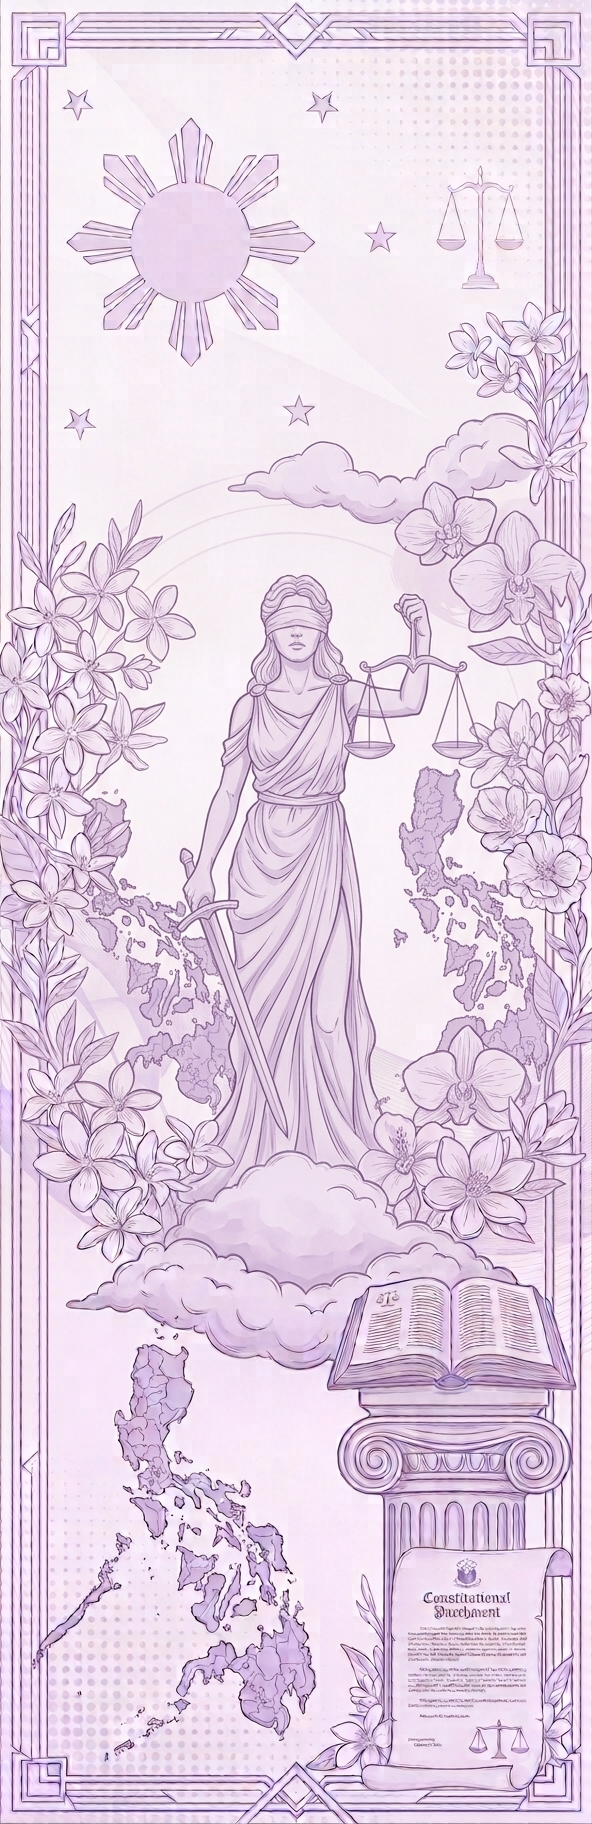
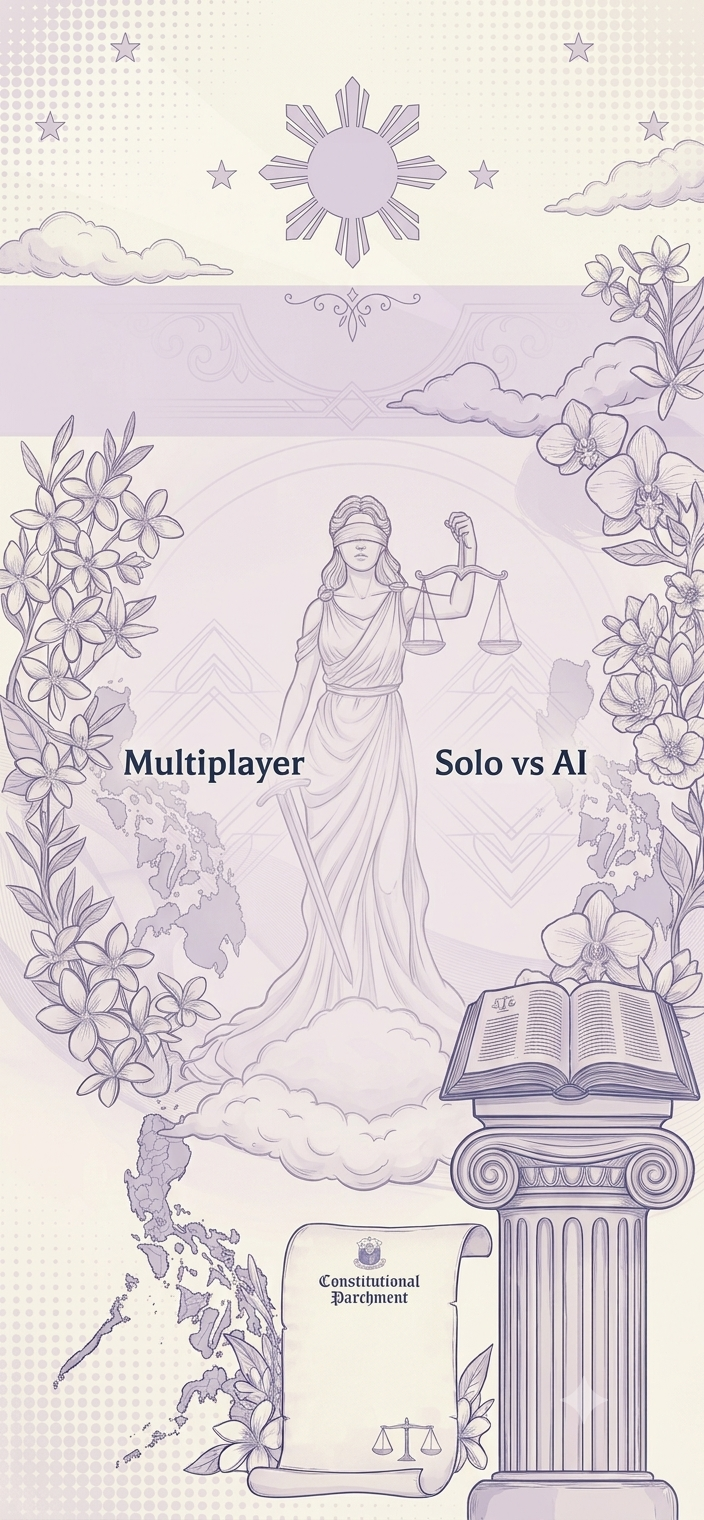
Switch background to full-screen cover mode, align title/cards with new artwork zones

diff --git a/www/js/game.js b/www/js/game.js
@@ -160,7 +160,7 @@ function renderHome(){
     <button class="sound-chip" onclick="toggleSound()">${soundIcon}</button>
     <button class="lang-chip" onclick="openLangPicker()"><svg viewBox="0 0 24 24" fill="none" stroke="currentColor" stroke-width="2" stroke-linecap="round" stroke-linejoin="round"><circle cx="12" cy="12" r="9"/><path d="M3 12h18M12 3a14 14 0 0 1 0 18M12 3a14 14 0 0 0 0 18"/></svg>${langNames[currentLang]}</button>
     <div class="screen-body home-body home-bg">
-      <div class="grow" style="flex:0.8;"></div>
+      <div class="grow" style="flex:0.4;"></div>
       <div class="home-hero">
         <div class="home-title-block">
           <div class="home-logo home-title-font">Karapatan Cards</div>

diff --git a/www/css/style.css b/www/css/style.css
@@ -138,7 +138,7 @@ body{
 .home-body{ position:relative; overflow:hidden; }
 .home-bg{
   background-image:url('../assets/customizable/background.png');
-  background-repeat:no-repeat; background-position:center center; background-size:contain;
+  background-repeat:no-repeat; background-position:center top; background-size:cover;
 }
 .home-hero{ position:relative; z-index:1; }
 .home-section-title{ text-align:center; margin:6px 0 12px; opacity:0.75; }

diff --git a/www/assets/customizable/README.md b/www/assets/customizable/README.md
@@ -9,61 +9,43 @@ immediately with no code changes required.
 
 ---
 
-## 1. `background.png` — ✅ your real artwork, current version
+## 1. `background.png` — ✅ current version, full-screen cover
 - **Path:** `www/assets/customizable/background.png`
-- **Dimensions:** 592 × 1824px, tall "poster" format with its own
-  decorative border already built into the art (art-deco corner brackets,
-  full frame)
-- **What it controls:** The home screen background — the Philippine
-  sun-and-stars motif, Lady Justice with sword and scales, the Philippine
-  map, clouds, an open book on an ionic column, and a "Constitutional
-  Placement" scroll, all in the app's purple/lavender palette.
-- **How it's displayed:** `background-size: contain` (shows the *entire*
-  illustration, no cropping) rather than `cover`. This matters because the
-  image is unusually tall/narrow — `cover` would have cropped roughly 39%
-  off the top, cutting off the sun/stars motif entirely. Since this
-  artwork is a complete, self-framed poster, `contain` (with some empty
-  margin on the left/right) is the correct fit.
+- **Dimensions:** 704 × 1520px (aspect ratio ≈ 1:2.16 — close to a real
+  phone screen shape, designed for edge-to-edge coverage)
+- **What it controls:** The home screen background — sun/stars/clouds
+  header, an ornate light-purple banner (designed as the title zone),
+  Lady Justice with scales, florals, Philippine map, an open book on an
+  ionic column, and the "Constitutional Parchment" scroll.
+- **Display mode:** `background-size: cover` (fills the entire screen,
+  no letterboxing) with `background-position: center top` — this crops
+  only 0–7% off the very bottom on most phones, keeping the distinctive
+  sun/stars header fully intact. This is a genuine improvement over the
+  previous version: that one needed `contain` (with visible side margins)
+  because its aspect ratio was much taller/narrower; this one is properly
+  proportioned for true full-bleed coverage.
 
-### Two bugs fixed along the way, worth knowing about
-1. **Relative path bug:** the CSS file lives at `www/css/style.css`, and
-   `url()` paths inside a CSS file resolve relative to the *CSS file's own
-   location*, not `index.html`. The path had to be
-   `../assets/customizable/background.png` (stepping up out of `css/`
-   first), not `assets/customizable/background.png`. If you ever add more
-   background-referencing CSS rules yourself, remember this — it's an easy
-   mistake to repeat.
-2. **Legibility over a busy image:** this artwork is much more detailed
-   than a typical subtle background wash, so plain text sitting directly
-   on top of it (especially over the sun-rays area, and over the
-   scroll/scales area near the bottom) was genuinely harder to read. Fix:
-   the title/maxim text now sits on a semi-transparent frosted-white
-   backdrop (`.home-title-block`), and the "How to Play" button — which
-   used to be fully transparent/outline-only — now has a mostly-solid
-   white fill (`.home-howto-btn-solid`) so the artwork doesn't show
-   distractingly through its text. Both were verified with an actual
-   rendered mockup before shipping, not just assumed.
+### Layout alignment
+The designer's artwork includes a light banner zone (~20% down) clearly
+intended for the title, and mocked-up "Multiplayer"/"Solo vs AI" labels
+(~45–50% down) showing where the mode-select cards should sit. I adjusted
+the app's internal spacing (`game.js`, the flex spacer above the title
+block) so the real title and the real interactive cards now land in those
+same zones — verified with an actual rendered composite before shipping,
+not just eyeballed. If future artwork changes those zones' position, this
+spacer value (currently `flex:0.4` on the top spacer) is the one number to
+retune to match.
 
 ## 2. `lady-liberty-guide.png` — ✅ your real artwork
 - **Path:** `www/assets/customizable/lady-liberty-guide.png`
-- **Dimensions:** 862 × 991px, transparent PNG
-- **What it controls:** The chibi character at the top of the "How to
-  Play" popup.
-- Note: the file as originally sent had a solid opaque black background
-  (no alpha channel) — I extracted the character via a feathered
-  chroma-key and installed the transparent result under this filename.
-  For future re-exports, export directly with a transparent background if
-  your tool supports it — cleaner than needing this extraction step.
+- 862 × 991px, transparent PNG. The chibi character in the "How to Play"
+  popup. (Note: originally sent with an opaque black background — I
+  extracted the transparent version via chroma-key. Future exports:
+  export directly with transparency if your tool supports it.)
 
-## 3. `statue-of-liberty.png` — still my rough placeholder
-- **Path:** `www/assets/customizable/statue-of-liberty.png`
-- 600 × 1200px. Not referenced by any code — raw standalone source art
-  only, left over from the first placeholder version.
-
-## 4. `law-decoration.png` — still my rough placeholder
-- **Path:** `www/assets/customizable/law-decoration.png`
-- 400 × 400px. Same status as above — unused placeholder, safe to ignore
-  or delete if you don't need it.
+## 3. `statue-of-liberty.png` / `law-decoration.png` — unused placeholders
+Still my original rough placeholder art, not referenced by any code.
+Safe to ignore or delete.
 
 ---
 
